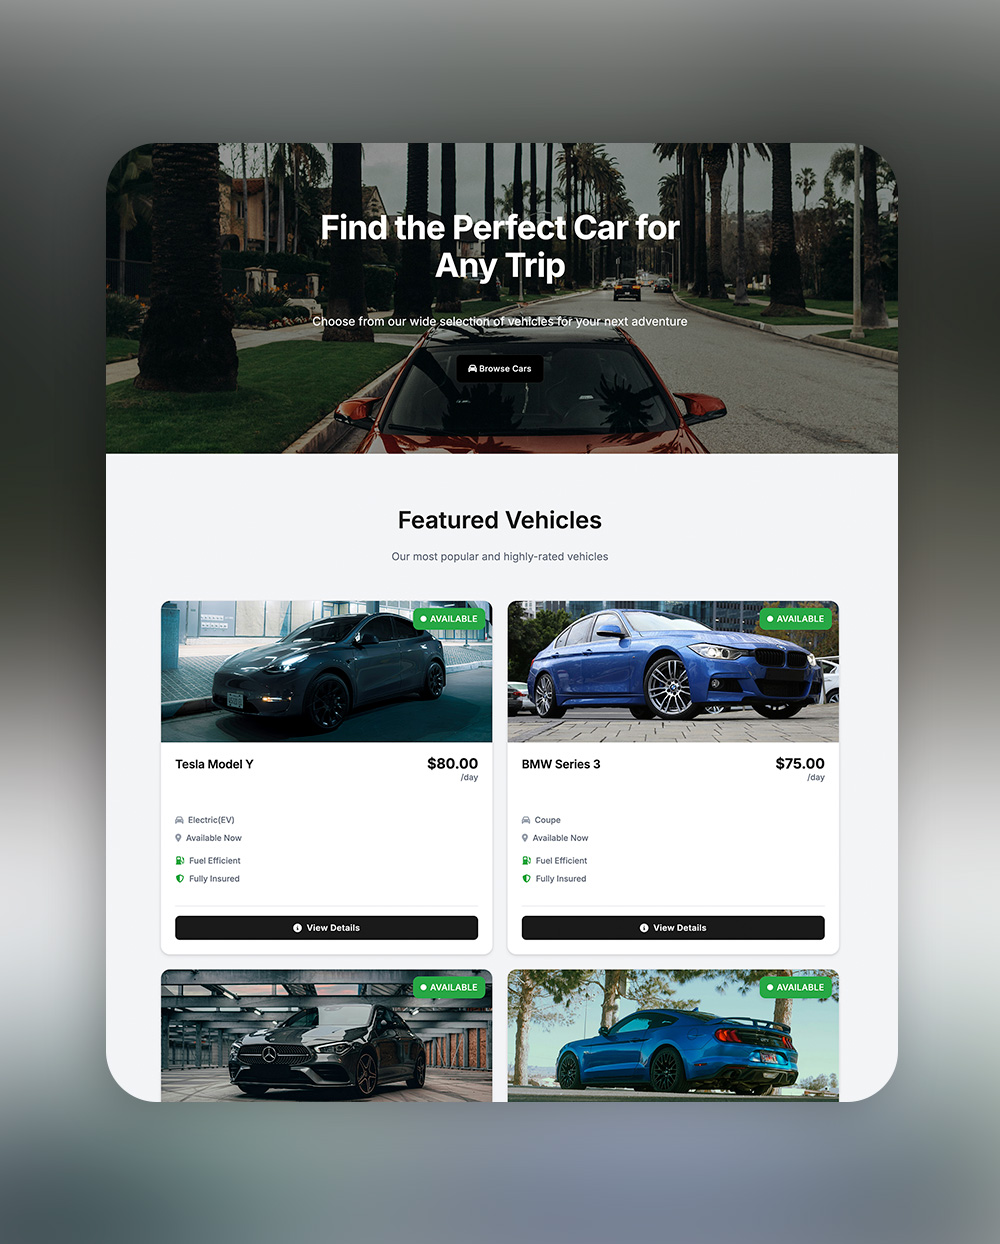
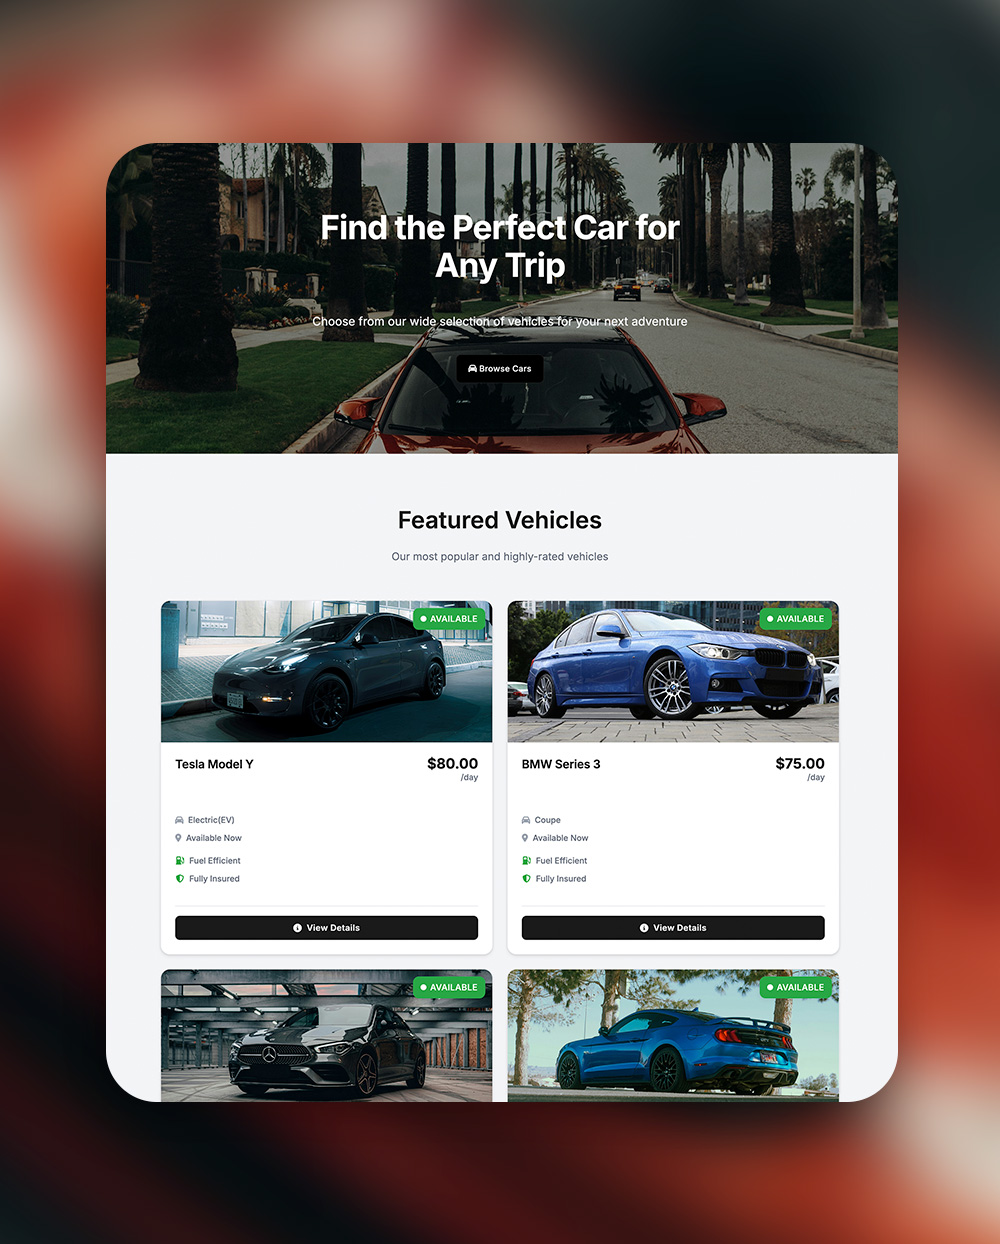
Fit AI Project Added

diff --git a/index.html b/index.html
@@ -65,6 +65,17 @@
                     <img src="img/vroom.jpg" alt="Vroom Project">
                 </div>
             </a>
+            <a href="">
+                <div class="card">
+                    <div class="card-tags">
+                        <div class="tag">Mobile</div>
+                        <div class="tag">React</div>
+                        <div class="tag">Coming Soon</div>
+                    </div>
+                    <h3>Fit Ai</h3>
+                    <img src="img/fit_ai.jpg" alt="Fit AI Project">
+                </div>
+            </a>
             <a href="chopshop.html">
                 <div class="card">
                     <div class="card-tags">
@@ -96,6 +107,7 @@
                     <img src="img/spoonful.jpg" alt="SpoonfulMeals Project">
                 </div>
             </a>
+            
         </div>
 
         <div class="headline skills-headline" id="toolbox">

diff --git a/vroom.html b/vroom.html
@@ -3,7 +3,7 @@
 <head>
     <meta charset="UTF-8">
     <meta name="viewport" content="width=device-width, initial-scale=1.0">
-    <title>Vroom | Faris Kabaklic </title>
+    <title>Vroom | Faris Kabaklic</title>
     <link href="https://fonts.googleapis.com/css2?family=Inter:wght@400;700&display=swap" rel="stylesheet">
     <link rel="stylesheet" href="css/style.css">
     <link rel="icon" href="img/favicon.svg">